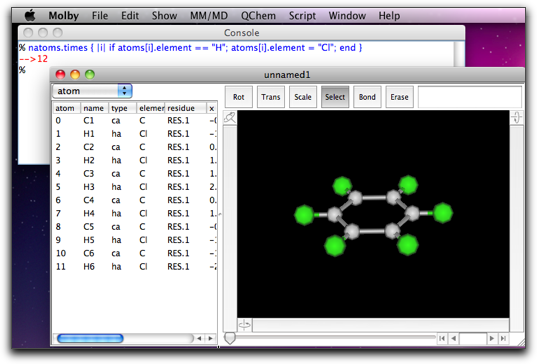
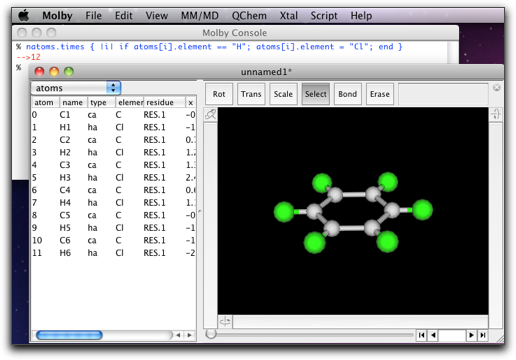
Document figures in Step 11 are updated
git-svn-id: svn+ssh://svn.sourceforge.jp/svnroot/molby/trunk@506 a2be9bc6-48de-4e38-9406-05402d4bc13c

Changed region(s): [[0.0, 0.0, 0.9922, 0.9778], [0.5271, 0.4583, 0.8682, 0.7028]]

diff --git a/Documents/src/doc_source.html b/Documents/src/doc_source.html
@@ -2012,7 +2012,7 @@ The "32" here is not a number but a string, because it is surrounded by quotatio
 </p>
 <p><img src="../etc/ruby_02.png" /></p>
 <p>
-Molby complains with this error dialog. It says "in '+': can't convert Fixnum into String," which means the integer 32 cannot be added to a string "C". Such kind of "type mismatch" error occurs very often, so please get used to it and learn how to fix it.
+Molby complains with this error dialog. It says "no implicit conversion of Fixnum into String," which means the integer 32 cannot be added to a string "C". Such kind of "type mismatch" error occurs very often, so please get used to it and learn how to fix it.
 </p>
 <p>
 Another useful feature of Ruby is an <i>Array</i>, which is an ordered collection of other Ruby objects. An array is expressed by comma-separated values surrounded by a pair of brackets.
@@ -2220,9 +2220,25 @@ The last example generates a model of carbon nanotube with any chirality and len
 <p class="code"><span class="comment">#  Create a model of carbon nanotube
 #  Requires Molby</span>
 r = 1.42     <span class="comment">#  The C-C bond length</span>
-n = 10       <span class="comment">#  The chirality index</span>
+n = 10       <span class="comment">#  The default chirality index</span>
 m = 5        <span class="comment">#  (ibid)</span>
-aspect = 5.0 <span class="comment">#  The aspect ratio (length / diameter)</span>
+aspect = 5.0 <span class="comment">#  The default aspect ratio (length / diameter)</span>
+
+#  Dialog to ask the chirality index and the aspect ratio
+h = Dialog.run("Create Carbon Nanotube") {
+  layout(3,
+    item(:text, :title=&gt;"Chirality Index"),
+    item(:textfield, :width=&gt;80, :tag=&gt;"n", :value=&gt;n.to_s),
+    item(:textfield, :width=&gt;80, :tag=&gt;"m", :value=&gt;m.to_s),
+    item(:text, :title=&gt;"Aspect Ratio"),
+    item(:textfield, :width=&gt;160, :tag=&gt;"aspect", :value=&gt;sprintf("%.1f", aspect)),
+    -1)
+}
+
+exit if h[:status] != 0
+aspect = h["aspect"].to_f
+n = h["n"].to_i
+m = h["m"].to_i
 
 k = aspect / (PI * sqrt(3.0))
 points = []
@@ -2257,7 +2273,7 @@ mol.guess_bonds
 mol2 = Molecule.open
 mol2.add(mol)
 </p>
-<p><img src="../etc/ruby_07.png" /><img src="../etc/ruby_08.png" /></p>
+<p><img style="vertical-align: top;" src="../etc/ruby_07.png" /><img src="../etc/ruby_08.png" /></p>
 
 <h2>5. Where to Go from Here</h2>
 <p>
@@ -2316,7 +2332,7 @@ Ruby インタプリタが "1+2" を計算し、答え (3) を次の行に表示
 </p>
 <p><img src="../etc/ruby_02.png" /></p>
 <p>
-Molby はエラーメッセージ "in '+': can't convert Fixnum into String" を表示します。これは、「整数」32 を「文字列」"C" に足すことはできないことを意味しています。このような「型が違う」エラーはとてもよく起きるので、どのように直せばいいかをよく理解しておいてください。
+Molby はエラーメッセージ "no implicit conversion of Fixnum into String" を表示します。これは、「整数」32 を「文字列」"C" に足すことはできないことを意味しています。このような「型が違う」エラーはとてもよく起きるので、どのように直せばいいかをよく理解しておいてください。
 </p>
 <p>
 Ruby のもう１つの便利な機能は「配列」<i>(Array)</i> です。これは、他の Ruby オブジェクトを順番に並べたものです。配列は、値をコンマで区切って角括弧 [] で囲むことで表します。
@@ -2524,9 +2540,25 @@ fp.close                     <span class="comment">#  We are done with this file
 <p class="code"><span class="comment">#  Create a model of carbon nanotube
 #  Requires Molby</span>
 r = 1.42     <span class="comment">#  The C-C bond length</span>
-n = 10       <span class="comment">#  The chirality index</span>
+n = 10       <span class="comment">#  The default chirality index</span>
 m = 5        <span class="comment">#  (ibid)</span>
-aspect = 5.0 <span class="comment">#  The aspect ratio (length / diameter)</span>
+aspect = 5.0 <span class="comment">#  The default aspect ratio (length / diameter)</span>
+
+#  Dialog to ask the chirality index and the aspect ratio
+h = Dialog.run("Create Carbon Nanotube") {
+  layout(3,
+    item(:text, :title=&gt;"Chirality Index"),
+    item(:textfield, :width=&gt;80, :tag=&gt;"n", :value=&gt;n.to_s),
+    item(:textfield, :width=&gt;80, :tag=&gt;"m", :value=&gt;m.to_s),
+    item(:text, :title=&gt;"Aspect Ratio"),
+    item(:textfield, :width=&gt;160, :tag=&gt;"aspect", :value=&gt;sprintf("%.1f", aspect)),
+    -1)
+}
+
+exit if h[:status] != 0
+aspect = h["aspect"].to_f
+n = h["n"].to_i
+m = h["m"].to_i
 
 k = aspect / (PI * sqrt(3.0))
 points = []
@@ -2561,7 +2593,7 @@ mol.guess_bonds
 mol2 = Molecule.open
 mol2.add(mol)
 </p>
-<p><img src="../etc/ruby_07.png" /><img src="../etc/ruby_08.png" /></p>
+<p><img style="vertical-align: top;" src="../etc/ruby_07.png" /><img src="../etc/ruby_08.png" /></p>
 
 <h2>5. 次に学ぶべきこと</h2>
 <p>
